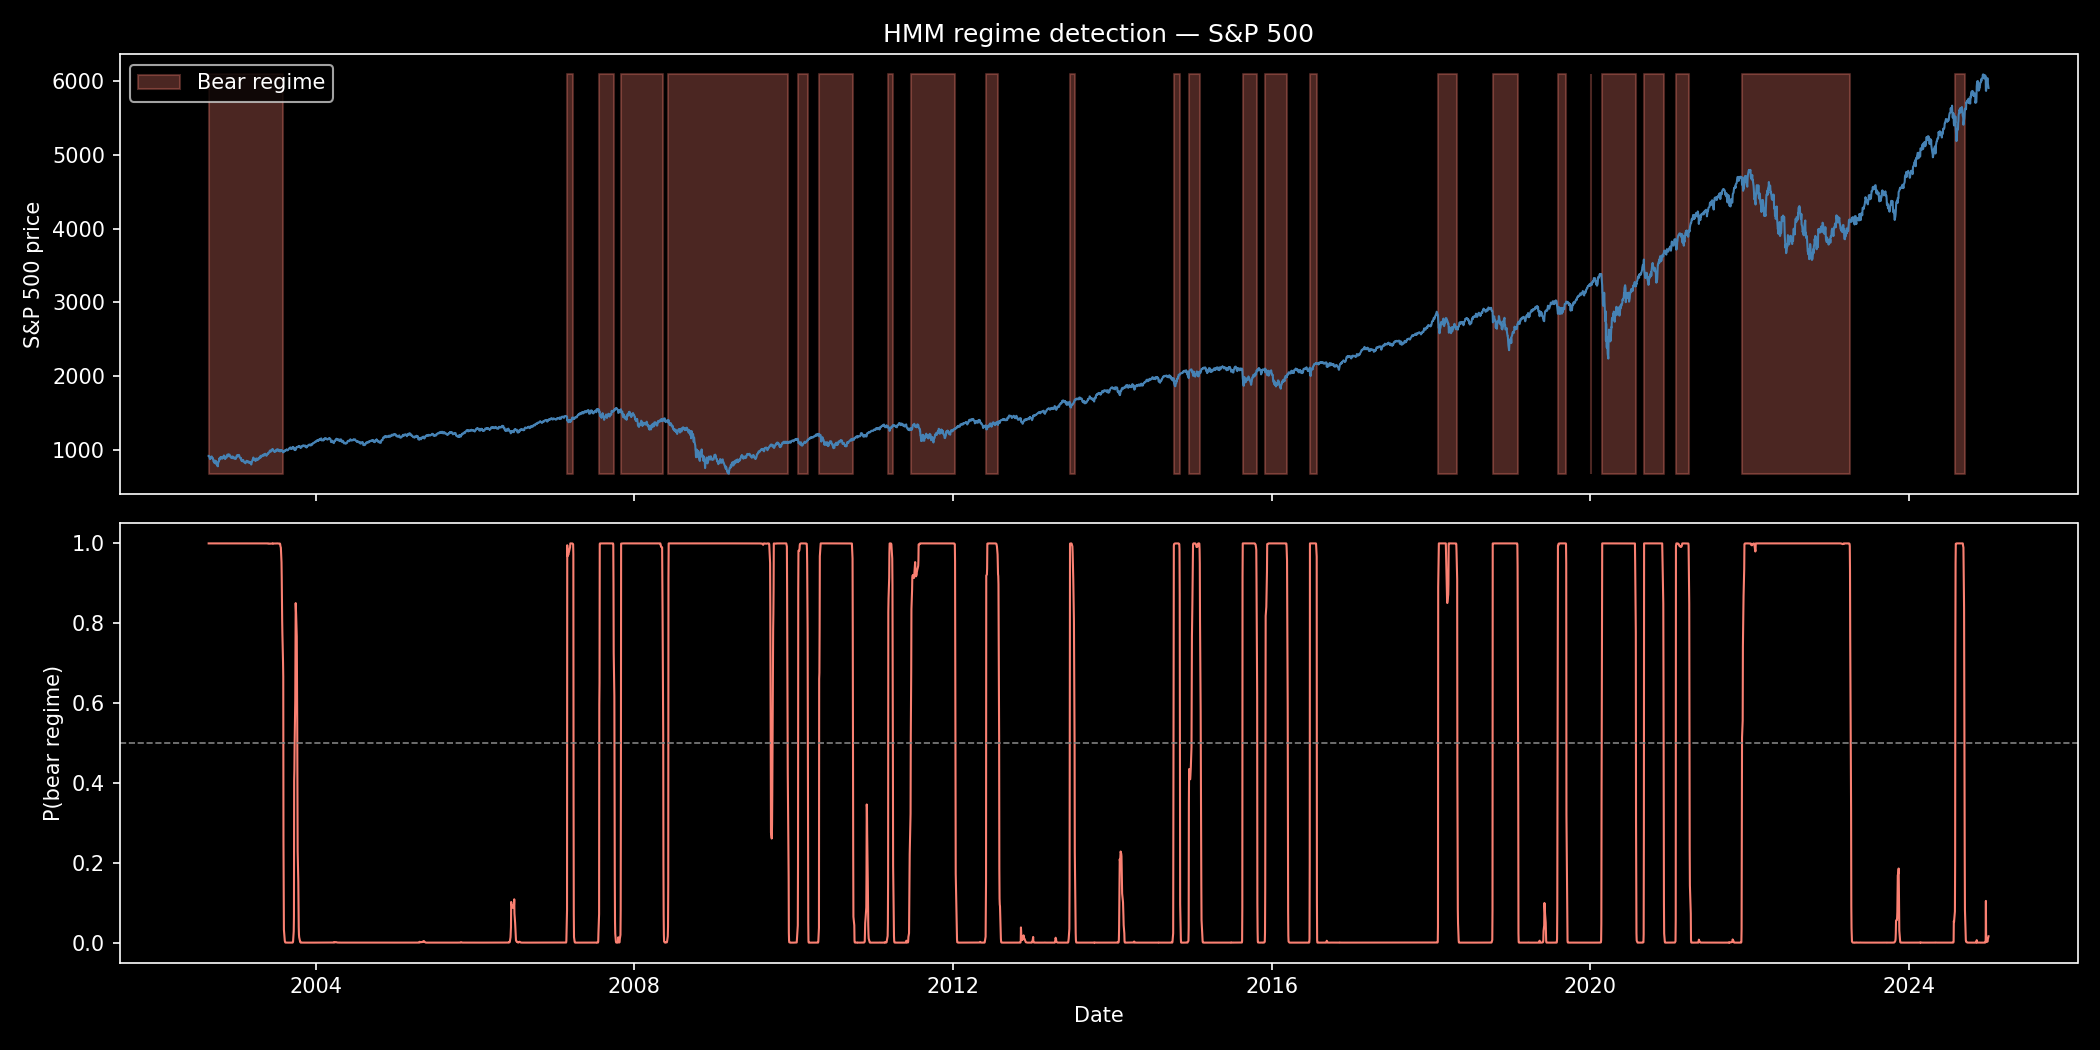
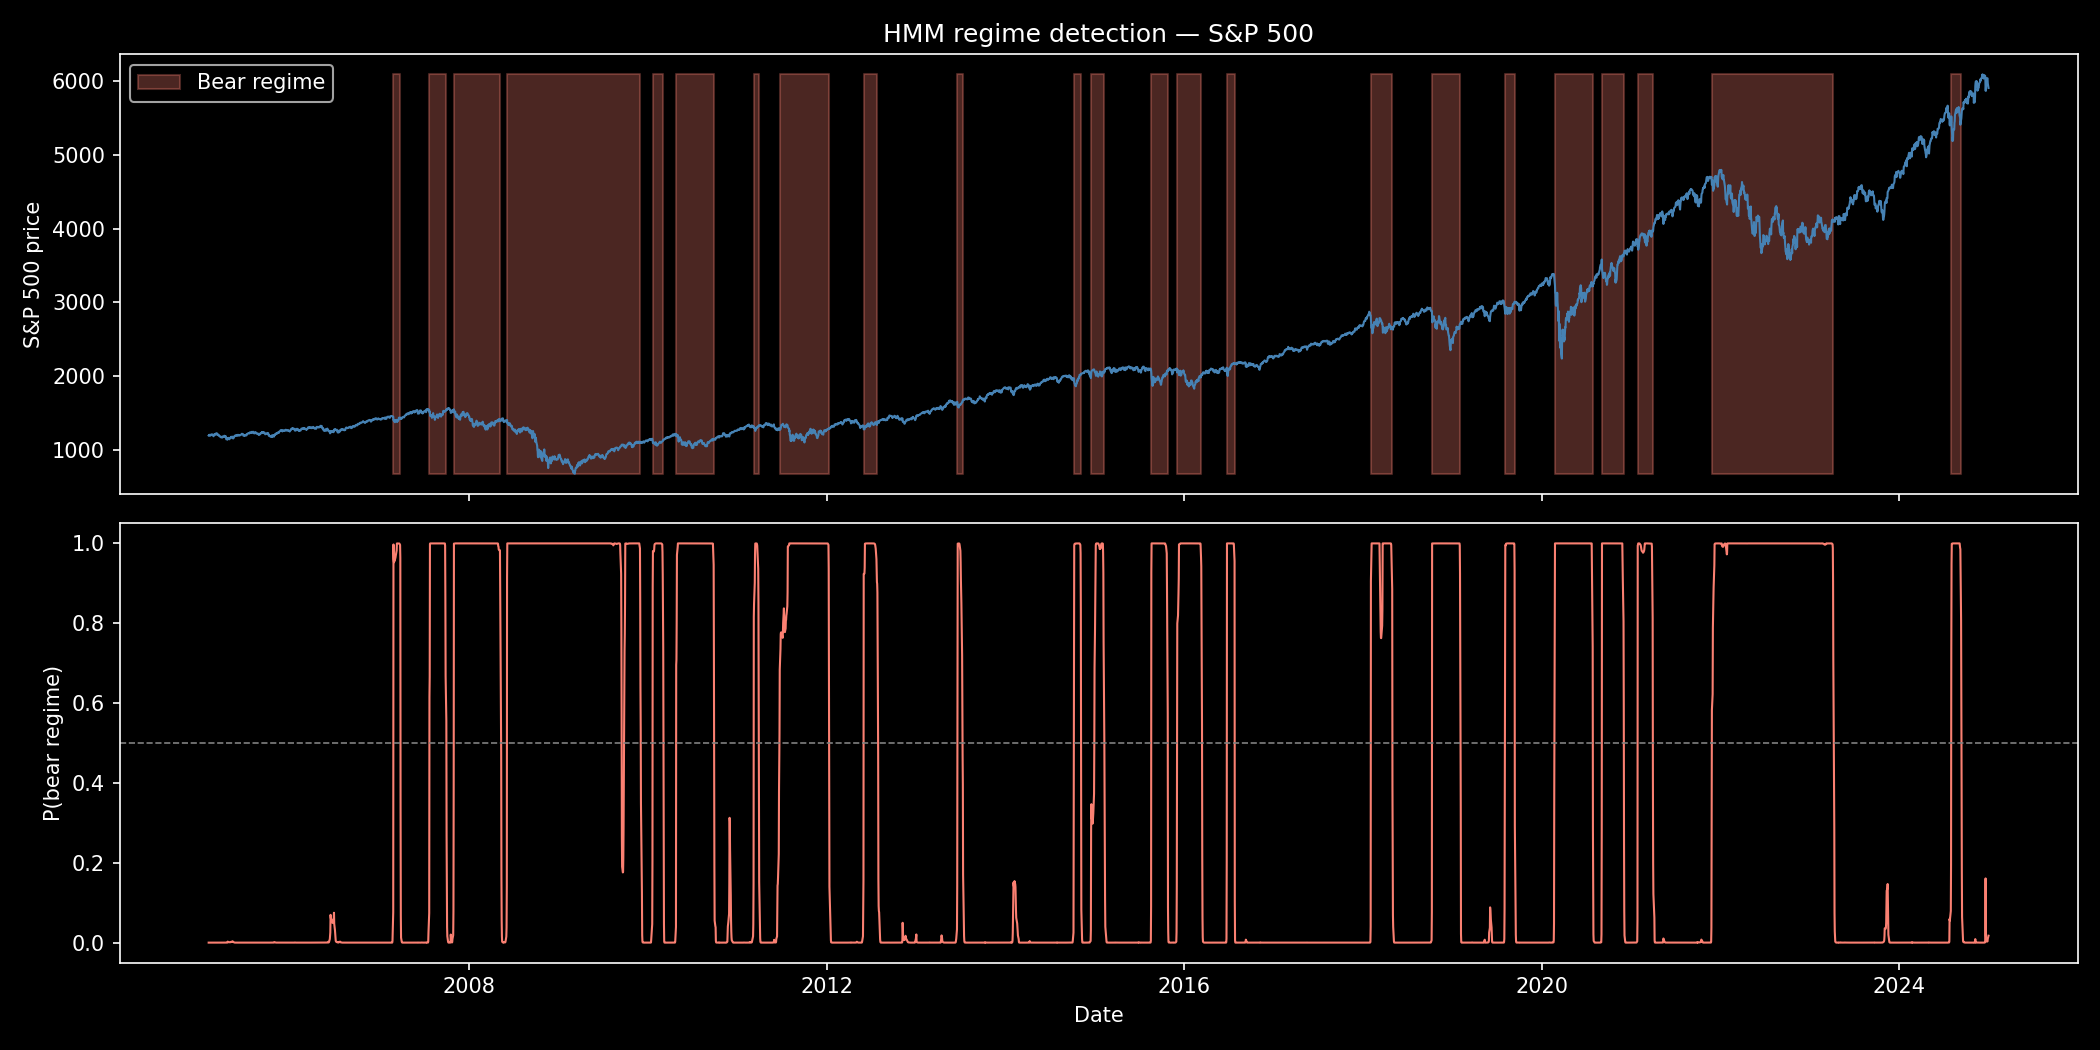
changed tickers and start date of data

diff --git a/data_pipeline.py b/data_pipeline.py
@@ -6,8 +6,14 @@ from sklearn.preprocessing import StandardScaler
 def run():
 
     # ── 1. Download data ──────────────────────────────────────────────
-    tickers = {"spy": "^GSPC", "vix": "^VIX", "bonds": "TLT"}
-    raw = {name: yf.download(ticker, start="2000-01-01", end="2024-12-31",
+    tickers = {
+    "spy":  "^GSPC",
+    "qqq":  "QQQ",
+    "tlt":  "TLT",
+    "gld":  "GLD",
+    "vix":  "^VIX"
+}
+    raw = {name: yf.download(ticker, start="2005-01-01", end="2024-12-31",
                             auto_adjust=True, progress=False)["Close"].squeeze()
         for name, ticker in tickers.items()}
 
@@ -36,7 +42,7 @@ def run():
     features["vix_level"]   = prices["vix"].reindex(features.index)
 
     # Yield-curve proxy: TLT return as bond-equity divergence
-    features["bond_ret_21d"] = returns["bonds_ret"].rolling(W).mean()
+    features["bond_ret_21d"] = returns["tlt_ret"].rolling(W).mean()
 
     # Attach raw SPY return for modelling
     features["spy_ret"]     = returns["spy_ret"]
